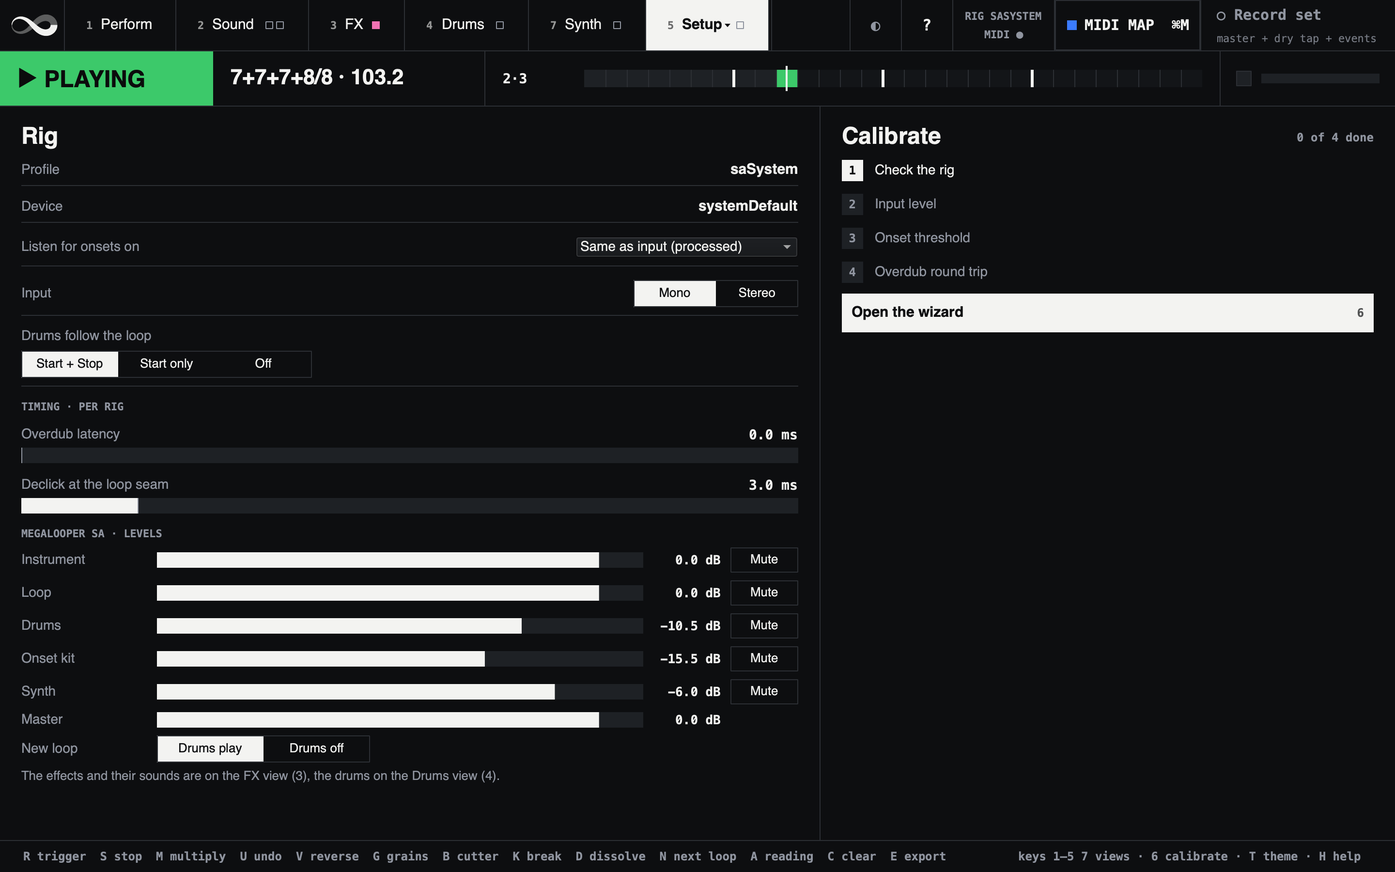
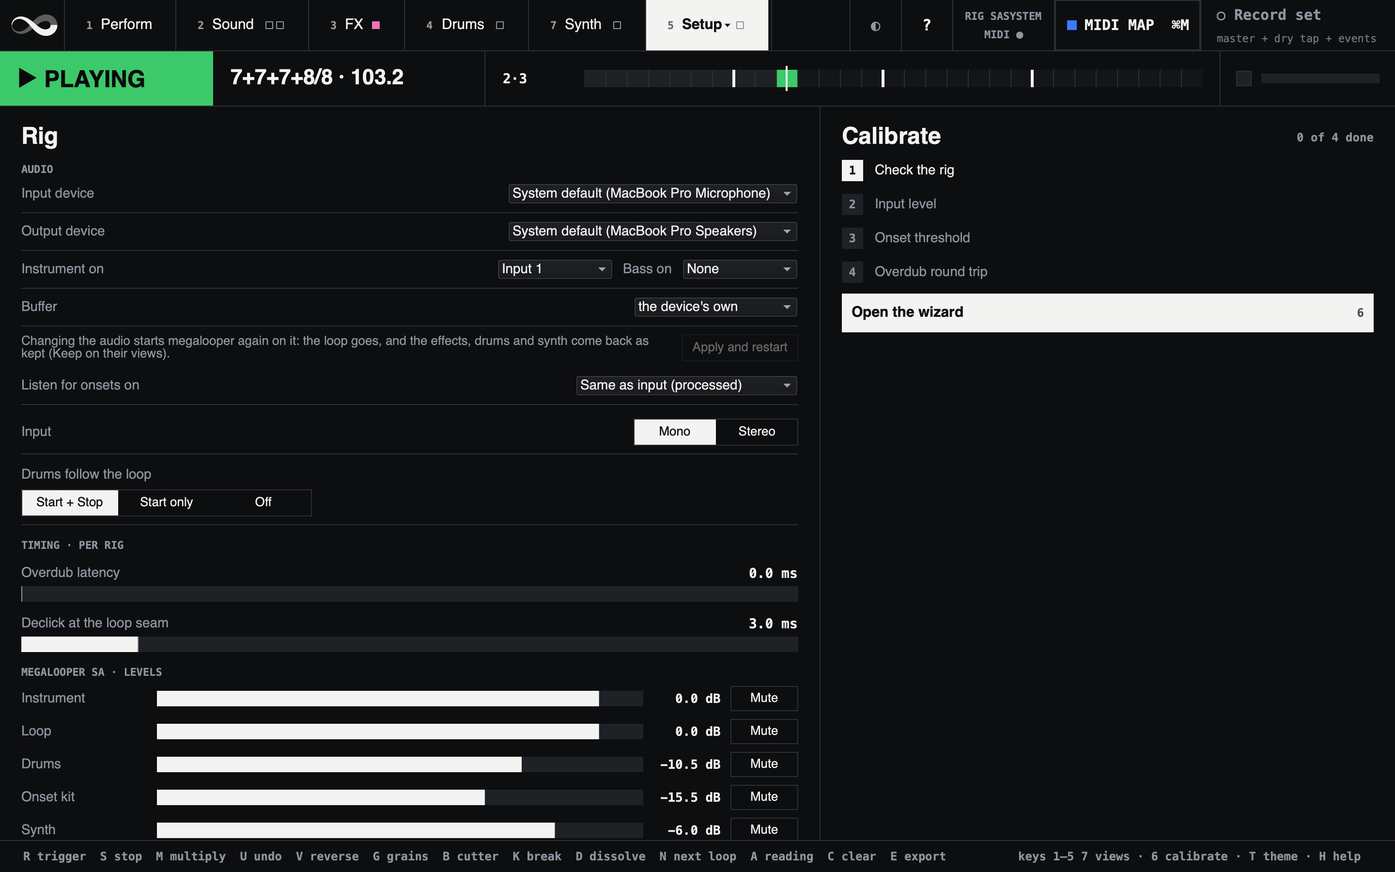
docs: Audio settings, with rigs of your own at its end
docs/routing.md is now "Audio settings": what the menus do (kept, two
devices, a device not there, Apply and restart, the outputs, Linux), the
analysis tap, a bass, the calibrated values per setup, the guards, and
then rigs of your own (when one is needed, adding one, what a profile
says, the device preflight). Its anchors stay; chapter 3 of the site, the
README, linux.md, standalone.md and the homepage follow.

The Rig page and the Calibrate view rendered again: AUDIO at the top, and
"KEPT FOR THIS SETUP" under the audio settings.

diff --git a/docs/routing.md b/docs/routing.md
@@ -1,67 +1,56 @@
-# Audio routing
+# Audio settings
 
-Which audio devices megalooper plays on, and where your instrument comes in,
-you choose in the launcher: the **Input** and **Output** devices, the input
-your **Instrument** is on, a **Bass** on an input of its own, and the
-**Buffer** (the manual's [Configuration](manual.md#configuration)). They are
-kept in `settings.json` and make megalooper's routing profile, **`saSystem`**,
-the one the rest of this page calls a profile: with nothing chosen it is the
-system's default input and output.
+Which audio devices megalooper plays on, and where your instrument and a bass
+come in, you choose from menus: in the launcher before the start, and on
+Setup's Rig page while it runs (the manual's
+[Configuration](manual.md#configuration) lists them). The rest of this page
+is what happens behind those menus, and, at its end, rigs of your own for
+what the menus do not offer.
 
-Every other rig is a profile of your own, in `profiles.scd` in your megalooper
-folder, for what the menus do not offer: an aggregate, a sample rate switched
-before the start. The launcher then offers it in a **Rig** menu beside
-`saSystem`: [Adding a rig](#adding-a-rig) says how to write one.
+## What the menus do
 
-A profile drives the audio device, the server's channel count, the input the
-looper records, the input the analysis listens to, and the starting values of
-the rig's timing. megalooper's own is in
-[`scripts/setup-routing.scd`](../scripts/setup-routing.scd). Changing the
-device or the channel count needs a restart.
+- **Kept for the next start**, in `settings.json` in your megalooper folder.
+  The devices are kept by name.
+- **Two devices are fine.** The input can be one device and the output
+  another, the microphone and the speakers of a laptop, say: SuperCollider
+  joins them itself. They must run at the same sample rate, or the audio
+  server refuses to start; megalooper names both before it tries. Set them to
+  one rate in Audio MIDI Setup.
+- **A device that is not there** when megalooper starts gives way to the
+  system's default for that side, and an input the device does not have to
+  input 1 (the bass's to none). The launcher says so before you press Start,
+  the Rig page says it in red, and your choice stays, so the next start with
+  the device plugged in is as you left it.
+- **Changing the audio means starting again.** The device is fixed when the
+  audio server starts. On the Rig page, **Apply and restart** does that in
+  place: megalooper quits the server and starts again on the new audio. The
+  loop goes, and the effects, drums and synth come back as kept (**Keep** on
+  their views). While **Record set** runs it refuses, so the set's files end
+  where you chose.
+- **Outputs 1 and 2.** The mix leaves on the output device's outputs 1 and 2,
+  and **Record set** records it as it leaves. **Rec next loop** records your
+  instrument plus the loop after its effects. Nothing else needs a channel.
+- **Linux.** JACK or PipeWire connects megalooper's inputs and outputs, so
+  there are no device menus ([Linux](linux.md)).
 
-## What a profile says
-
-Channels are counted from 0: input 1 of the interface is channel 0.
-
-| Field | What it is |
-| --- | --- |
-| `device` | The audio device, by its exact CoreAudio name. `\systemDefault` (as on `saSystem`) is the system's default input and output, which on a laptop are two devices: the microphone and the speakers |
-| `numChans` | How many channels SuperCollider opens, inputs and outputs |
-| `numInChans` | Optional: more inputs than outputs, when an input you need sits above `numChans` |
-| `inChannel` | Your instrument's input. The instrument chain starts here, and the looper records what comes out of the chain |
-| `inChannelCount` | `2` records both sides of the instrument chain, so its stereo effects reach the loop |
-| `analysisChannel` | Optional: the one input the onset and pitch detection listens to. See [The analysis tap](#the-analysis-tap) |
-| `bassChannel` | Optional: a bass on an input of its own, with a chain and a strip of its own. See [A bass](#a-bass) |
-| `sa`, `live` | `sa: true, live: false`, both: Megalooper SA, with its mixer, chains, drums and synth. Leave `live: false` out and the Rig page shows controls meant for another setup, and the start runs checks it does not need |
-| `memSize` | `65536`: the memory the effects' delay lines need |
-| `sampleRate`, `setSampleRate` | Optional: the rate the rig is wired for. With `setSampleRate: true` the device is switched to it before the start |
-| `hardwareBufferSize` | Optional: the block size to start with, in frames. Smaller is a shorter round trip and more work for the computer |
-| `midiMap` | Optional: the MIDI map the rig starts with, by name |
-| `latencyMs`, `onsetThreshold`, `onsetNoteOffsetMs` | The rig's starting timing values. See [The calibrated values](#the-calibrated-values) |
-| `chainRecOffsetMs` | Optional: where **Rec next loop** starts recording, in ms, so a chained loop is not rotated in its buffer. Measured with `scripts/check-chain-align.scd` |
-| `members` | Optional, for an aggregate device: the devices it should hold, so the preflight can name one that is missing |
-
-The loop's output, the master and the recording need no channels of yours:
-Megalooper SA places them itself. The mix leaves on outputs 1 and 2, and
-**Record set** records that mix as it leaves. **Rec next loop** records your
-instrument plus the loop after its effects.
+Behind the menus is megalooper's own routing profile, `saSystem` (in
+[`scripts/setup-routing.scd`](../scripts/setup-routing.scd)): Megalooper SA,
+the instrument recorded through both sides of its chain, the memory the
+effects need. The menus fill in its devices and inputs. With nothing chosen it
+is the system's default input and output.
 
 ## The analysis tap
 
 Meter detection sees nothing but onset times. Distortion and ambient effects
 smear the attacks of your notes, and blurred onsets are the main cause of a
 wrong meter: a straight 4/4 take comes out 7/8 because no pulse grid fits. So
-the analysis can listen to your instrument **dry**, straight off its input,
-while the looper goes on recording it through the instrument chain. What you
-hear and what gets looped do not change.
+the analysis listens to your instrument **dry**, straight off the input it
+comes in on, while the looper goes on recording it through the instrument
+chain. What you hear and what gets looped do not change.
 
-`analysisChannel` is that input, one channel. On `saSystem` it is input 1,
-the same input the instrument comes in on.
-
-- **Off by channel.** Leave `analysisChannel` out and the analysis listens to
-  what the looper records, effects and all. **Listen for onsets on** on Setup's
-  Rig page switches between the two while you play, so you can compare a take
-  against the same audio.
+- **Listen for onsets on** on Setup's Rig page switches between the dry input
+  (*Clean tap*) and what the looper records, effects and all (*Same as
+  input*), while you play, so you can compare a take against the same audio.
 - **The failure to know.** A tap on the wrong input is *silent*, and silence
   looks like a musical problem: the loop records perfectly while every take
   reports 0 onsets and falls back to a meter worked out from the length alone.
@@ -72,66 +61,81 @@ the same input the instrument comes in on.
 
 ## A bass
 
-**Bass: Input 2** in the launcher (in a profile of yours, `bassChannel: 1`)
-says a bass is on the interface's input 2. Megalooper SA plays it through the
-bass chain (the **BASS** row on the FX view) onto a strip of its own, **Bass**
-under Levels on Setup's Rig page and on Perform, and **Record set** writes it
-as a stem of its own. The looper does not record it. **None** is the start:
-on a laptop input 2 is the microphone. The bass's input is never the
-instrument's: that would play the instrument twice, and megalooper starts
-without the bass then, saying why.
+**Bass: Input 2** says a bass is on the input device's input 2. Megalooper SA
+plays it through the bass chain (the **BASS** row on the FX view) onto a strip
+of its own, **Bass** under Levels on Setup's Rig page and on Perform, and
+**Record set** writes it as a stem of its own. The looper does not record it.
+**None** is the start: on a laptop input 2 is the microphone. The bass's input
+is never the instrument's: that would play the instrument twice, and
+megalooper starts without the bass then, saying why.
+
+## The calibrated values
+
+| Value | What it corrects | How you get it |
+| --- | --- | --- |
+| Overdub latency (`latencyMs`) | How far back an overdub is written, so it lands where you played it. 0 to 100 ms | Measured by the Calibrate view's round-trip step, or by ear ("Overdub latency" on Setup's Rig page) |
+| Onset threshold (`onsetThreshold`) | How loud an attack must be to count as an onset. Defaults to 0.5 | The Calibrate view's threshold step, on Setup's Analysis page |
+| Onset notes' offset (`onsetNoteOffsetMs`) | When the onset notes are played, so they sit on the loop. Defaults to 0 | By ear ("Offset" under onset notes on Setup's Analysis page) |
+| Chain offset (`chainRecOffsetMs`) | Where **Rec next loop** starts recording, so a chained loop is not rotated in its buffer. `saSystem` has 20 ms | Measured with `scripts/check-chain-align.scd`; the Calibrate view does not measure it |
+
+They measure the paths your audio takes, so a number calibrated on one
+interface is wrong on the next. What you apply on the Calibrate view is kept
+per **setup**, the input and output devices and the buffer
+("My Interface @ 64 frames"), in `calibration.json` in your megalooper
+folder, and every start on that setup begins with it. **Forget** lets it go.
+A value dialled by ear on Setup is not kept that way.
+
+A setup with nothing kept yet starts from:
+
+1. a rig of yours (below) on the same device, both ways, one with Megalooper SA
+   first: the numbers kept for it, else its profile's;
+2. else what `saSystem` kept before there were setups;
+3. else `saSystem`'s own numbers.
+
+The Calibrate view says which. The first start on such a device also takes
+over that rig's **MIDI map**, unless `saSystem` uses a map of your own
+already, and the status line says so. So moving from a rig of your own to the
+menus keeps your map and your latency.
 
 ## Boot-time guards
 
 These checks run before every start, because each of these failures is
 silent otherwise:
 
-- **Device present.** If the profile's device is missing, SuperCollider would
-  quietly start on the default device with the wrong channel count. Instead the
-  start stops with a banner naming the rig, the device it wanted and every
-  device there is. Names match leniently (either one contained in the other),
-  because SuperCollider shortens long and non-ASCII names: it lists
-  "Das Zwölfer Microphone" as "Das Zwölfer Microphon".
-- **Sample rate.** On `saSystem` the default input and output must run at the
-  same rate, or SuperCollider refuses to start: megalooper names both, and
-  [Configuration](manual.md#configuration) says how to make them agree.
+- **Sample rate.** The input and output must run at the same rate, or the
+  audio server refuses to start: megalooper names both devices and their
+  rates. For the system's defaults, `python3 tools/coreaudio.py
+  match-default-rates` sets them to agree ([Configuration](manual.md#configuration)).
+- **Device present.** A device you chose that is not there gives way to the
+  system's (above). A rig of yours whose device is missing stops the start
+  instead, with a banner naming the rig, the device it wanted and every device
+  there is: started on another device, its channels would all be wrong. Names
+  match leniently (either one contained in the other), because SuperCollider
+  shortens long and non-ASCII names: it lists "Das Zwölfer Microphone" as
+  "Das Zwölfer Microphon".
 
-### The device preflight
+## Rigs of your own
 
-Those checks see a device's name. Aggregate devices (several devices joined in
-Audio MIDI Setup) fail more quietly than that: a member drops out and the
-aggregate goes on working with fewer channels. SuperCollider asks for 17
-inputs, CoreAudio grants 16, and the analysis tap reads a bus nothing fills,
-for the whole session, looking exactly like a detection bug.
+The menus cover one device in, one out, the instrument's and a bass's inputs
+and the buffer. A **routing profile** of your own covers the rest:
 
-So before the start `~checkAudioDevice` asks the system what it actually has,
-through `system_profiler SPAudioDataType -json` (about 0.2 s, nothing to
-install). Run it again at any time:
+- an **aggregate device** (several joined in Audio MIDI Setup), with its
+  members named so the preflight can say which one dropped out;
+- a **sample rate switched** before the start;
+- several **fixed setups** you switch between by name, each with its own MIDI
+  map and starting numbers.
 
-```supercollider
-~checkAudioDevice.(~routingProfile);
-```
+With one, the launcher shows a **Rig** menu: `saSystem` (the menus) and each
+of yours, which says its own device and inputs, so the audio menus are greyed
+while it is chosen, and Setup's Rig page shows its name and device instead.
 
-| Finding | What it means | Result |
-| --- | --- | --- |
-| Fewer channels than `numChans` | A member has dropped out, and the rig's inputs and outputs cannot all exist | **Stops**, listing which expected members CoreAudio can still see |
-| Fewer channels than `numInChans` | Only the input above `numChans` is gone | **Goes on**: the tap is switched off and onset detection listens to the recorded input, and says so; the bass too, if its input is gone |
-| Device rate ≠ profile rate | The aggregate trap, caught before the start instead of after | Warns |
-| A `members` entry not present | The channel count still fits, so the other members have **shifted down**: every channel above the gap is now something else | Warns |
-| A member at a different rate from the aggregate | CoreAudio is resampling it, the usual cause of an aggregate that works until it doesn't | Warns |
-
-`members` builds nothing. It is there so the preflight can say *"the speakers
-are present, the interface is gone"* rather than only *"this device has two
-fewer channels than it should"*. Set **Clock Source** in Audio MIDI Setup to
-the interface, and tick Drift Correction on every other member.
-
-## Adding a rig
+### Adding a rig
 
 Write it into **`profiles.scd` in your megalooper folder**
 (`~/Library/Application Support/SuperCollider/megalooper/` on macOS,
 `~/.local/share/SuperCollider/megalooper/` on Linux). The file holds one
 Event, a profile per key. An interface with your instrument on input 1 and a
-bass on input 2:
+bass on input 2, switched to 48 kHz:
 
 ```supercollider
 // My rigs.
@@ -139,7 +143,7 @@ bass on input 2:
     myInterface: (
         device: "Exact CoreAudio Name", numChans: 2,
         inChannel: 0, analysisChannel: 0, bassChannel: 1,
-        inChannelCount: 2, latencyMs: 15, sampleRate: 48000,
+        inChannelCount: 2, latencyMs: 15, sampleRate: 48000, setSampleRate: true,
         memSize: 65536, sa: true, live: false)
 )
 ```
@@ -169,33 +173,52 @@ The analysis tap and the bass must each be an input the profile opens. Past
 the inputs, a channel reads one of megalooper's own busses, so a tap out of
 range would feed the looper's output back into the onset detection.
 
-### The calibrated values
+### What a profile says
 
-| Field | What it corrects | How you get it |
+Channels are counted from 0: input 1 of the interface is channel 0.
+
+| Field | What it is |
+| --- | --- |
+| `device` | The audio device, by its exact CoreAudio name. `\systemDefault` is the system's default input and output |
+| `numChans` | How many channels SuperCollider opens, inputs and outputs |
+| `numInChans` | Optional: more inputs than outputs, when an input you need sits above `numChans` |
+| `inChannel` | Your instrument's input. The instrument chain starts here, and the looper records what comes out of the chain |
+| `inChannelCount` | `2` records both sides of the instrument chain, so its stereo effects reach the loop |
+| `analysisChannel` | Optional: the one input the onset and pitch detection listens to ([The analysis tap](#the-analysis-tap)). Left out, it listens to what the looper records |
+| `bassChannel` | Optional: a bass on an input of its own ([A bass](#a-bass)) |
+| `sa`, `live` | `sa: true, live: false`, both: Megalooper SA, with its mixer, chains, drums and synth. Leave `live: false` out and the Rig page shows controls meant for another setup, and the start runs checks it does not need |
+| `memSize` | `65536`: the memory the effects' delay lines need |
+| `sampleRate`, `setSampleRate` | Optional: the rate the rig is wired for. With `setSampleRate: true` the device is switched to it before the start |
+| `hardwareBufferSize` | Optional: the block size to start with, in frames. The launcher's **Buffer** wins over it |
+| `midiMap` | Optional: the MIDI map the rig starts with, by name |
+| `latencyMs`, `onsetThreshold`, `onsetNoteOffsetMs`, `chainRecOffsetMs` | The rig's starting values ([The calibrated values](#the-calibrated-values)). What the Calibrate view keeps for the rig wins over them |
+| `members` | Optional, for an aggregate device: the devices it should hold, so the preflight can name one that is missing |
+
+### The device preflight
+
+The guards above see a device's name. Aggregate devices fail more quietly
+than that: a member drops out and the aggregate goes on working with fewer
+channels. SuperCollider asks for 17 inputs, CoreAudio grants 16, and the
+analysis tap reads a bus nothing fills, for the whole session, looking
+exactly like a detection bug.
+
+So before the start `~checkAudioDevice` asks the system what it actually has,
+through `system_profiler SPAudioDataType -json` (about 0.2 s, nothing to
+install). Run it again at any time:
+
+```supercollider
+~checkAudioDevice.(~routingProfile);
+```
+
+| Finding | What it means | Result |
 | --- | --- | --- |
-| `latencyMs` | How far back an overdub is written, so it lands where you played it. 0 to 100 ms | Measured by the Calibrate view's round-trip step, or by ear ("Overdub latency" on Setup's Rig page) |
-| `onsetThreshold` | How loud an attack must be to count as an onset. Defaults to 0.5 | The Calibrate view's threshold step, on Setup's Analysis page |
-| `onsetNoteOffsetMs` | When the onset notes are played, so they sit on the loop. Defaults to 0 | By ear ("Offset" under onset notes on Setup's Analysis page) |
-| `chainRecOffsetMs` | Where **Rec next loop** starts recording, so a chained loop is not rotated in its buffer. Defaults to 0; `saSystem` has 20 | Measured with `scripts/check-chain-align.scd`; the Calibrate view does not measure it |
+| Fewer channels than `numChans` | A member has dropped out, and the rig's inputs and outputs cannot all exist | **Stops**, listing which expected members CoreAudio can still see |
+| Fewer channels than `numInChans` | Only the input above `numChans` is gone | **Goes on**: the tap is switched off and onset detection listens to the recorded input, and says so; the bass too, if its input is gone |
+| Device rate ≠ profile rate | The aggregate trap, caught before the start instead of after | Warns |
+| A `members` entry not present | The channel count still fits, so the other members have **shifted down**: every channel above the gap is now something else | Warns |
+| A member at a different rate from the aggregate | CoreAudio is resampling it, the usual cause of an aggregate that works until it doesn't | Warns |
 
-They belong to the rig because they measure its paths: a number calibrated on
-one interface is wrong on the next. The profile gives the **starting** value.
-What you apply on the Calibrate view is kept for the rig in `calibration.json`
-in your megalooper folder, and every start begins with it; **Forget** goes back
-to the profile's numbers. A value dialled by ear on Setup is not kept that way:
-write it into the profile, or the next start begins from the old one.
-
-On `saSystem` the numbers are kept per **setup** instead: the input and
-output devices and the buffer chosen in the launcher ("TSMEGA @ 64 frames"),
-so a latency measured on your interface is not used on the laptop's speakers.
-A setup with nothing kept yet starts from:
-
-1. a rig of yours in `profiles.scd` on the same device, both ways (one with
-   Megalooper SA first): the numbers kept for it, else its profile's;
-2. else what `saSystem` kept before there were setups;
-3. else `saSystem`'s own numbers.
-
-The Calibrate view says which. The first start on such a device also takes
-over that rig's **MIDI map**, unless `saSystem` uses a map of your own
-already, and the status line says so. So a duo moving from a profile of their
-own to the launcher's menus keeps their map and their latency.
+`members` builds nothing. It is there so the preflight can say *"the speakers
+are present, the interface is gone"* rather than only *"this device has two
+fewer channels than it should"*. Set **Clock Source** in Audio MIDI Setup to
+the interface, and tick Drift Correction on every other member.

diff --git a/README.md b/README.md
@@ -110,7 +110,7 @@ and the looper plays while it records.
    Mac's Sound settings), the input your **Instrument** is plugged into, and a
    **Bass** on an input of its own if you have one. The mix plays on the
    output's 1 and 2. megalooper keeps your choice for the next start.
-   ([Audio routing](docs/routing.md))
+   ([Audio settings](docs/routing.md))
 3. Press **Start megalooper** and wait for the window. On a slower computer
    that clicks or drops out, pick 256 frames under **Buffer** first.
 4. With the megalooper window in front, press **R** to record, play a
@@ -131,7 +131,7 @@ folder:
 
 | Folder | What it holds |
 |---|---|
-| `profiles.scd` | Your own rigs, beside megalooper's saSystem ([Rigs and routing](docs/routing.md#adding-a-rig)) |
+| `profiles.scd` | Your own rigs, beside megalooper's saSystem ([Rigs of your own](docs/routing.md#rigs-of-your-own)) |
 | `bbcut/`, `granular/` | The cutter's and the grains' presets |
 | `midi/`, `midi/backups/` | Your MIDI maps, and the last five versions of each that **Keep** wrote over |
 | `sa/kept.json`, `sa/sounds/` | The sound a boot starts with, and the sounds you saved |
@@ -158,7 +158,7 @@ Recorded sets go to `sessions/` in this folder, which git ignores.
 | [megalooper on Linux](docs/linux.md) | Installing and starting it there, and what differs |
 | [Drums](docs/drums.md) | Getting a kit, and making one from your own samples |
 | [The synth](docs/synth.md) | The note sequencer, the Wave synth, your wavetables and VST instruments |
-| [Rigs and routing](docs/routing.md) | Rigs of your own: an interface, a bass |
+| [Audio settings](docs/routing.md) | The input and output, a bass, calibration per setup, and rigs of your own |
 | [The manual](docs/manual.md) | Every control, the MIDI map, the cutter, the grains, calibration, how the meter is found |
 | [MIDI map files](docs/midi-maps.md) | The JSON a map is kept in, to write or share one |
 | [AI apps](docs/ai.md) | Letting an AI app such as Claude Desktop read the set and change the drums, the synth, the effects, the Grains and the Cutter |

diff --git a/docs/linux.md b/docs/linux.md
@@ -76,7 +76,7 @@ From your application launcher, or from a terminal:
 
 The picker offers **saSystem**: the looper with its effect chains, drums
 and synth, on JACK's or PipeWire's default ports. A rig of your own (in
-`profiles.scd`, [Rigs and routing](routing.md#adding-a-rig)) says
+`profiles.scd`, [Adding a rig](routing.md#adding-a-rig)) says
 `device: \systemDefault` here: JACK or PipeWire has the interface, and a
 device named as macOS knows it shows ✗.
 
@@ -129,7 +129,7 @@ SuperCollider's server speaks JACK. With `pipewire-jack`, PipeWire answers.
 - **A rig for your interface.** megalooper cannot pick an interface by name
   on Linux: JACK or PipeWire has it. Write a profile with
   `device: \systemDefault` and your channel numbers
-  ([Rigs and routing](routing.md)).
+  ([Rigs of your own](routing.md#rigs-of-your-own)).
 - **Plugins.** The installer fetches VSTPlugin's Linux build. It hosts
   Linux VST2 and VST3 plugins. If its binaries do not load on your system
   (the log says so at the start), megalooper plays its built-in effects, and

diff --git a/docs/standalone.md b/docs/standalone.md
@@ -11,10 +11,10 @@ Megalooper SA plays on these rigs:
 
 - **saSystem**, the one the launcher offers first, plays your instrument from
   the input device and input you choose there, the system's input 1 until you
-  do, and the mix on the output's 1 and 2 ([Audio routing](routing.md)).
-- A profile of your own in `profiles.scd` suits an interface with more
-  channels, a bass or a fixed sample rate ([Rigs and
-  routing](routing.md#adding-a-rig)).
+  do, and the mix on the output's 1 and 2 ([Audio settings](routing.md)).
+- A profile of your own in `profiles.scd` suits an aggregate device, a
+  sample rate switched before the start, or several fixed setups ([Rigs of
+  your own](routing.md#rigs-of-your-own)).
 
 A bass can come in on an input of its own, **Bass** in the launcher ([A
 bass](routing.md#a-bass)): it plays through its own chain, the **BASS** row on

diff --git a/docs/manual.md b/docs/manual.md
@@ -1451,7 +1451,7 @@ megalooper/
     drums.md             -- the drums' kits
     synth.md             -- the synth
     ai.md                -- AI apps
-    routing.md           -- rigs of your own: what a profile says, and how to write one
+    routing.md           -- the audio settings, calibration per setup, and rigs of your own
     midi-maps.md         -- the MIDI map file format
     linux.md             -- megalooper on Linux
     images/              -- the screenshots
